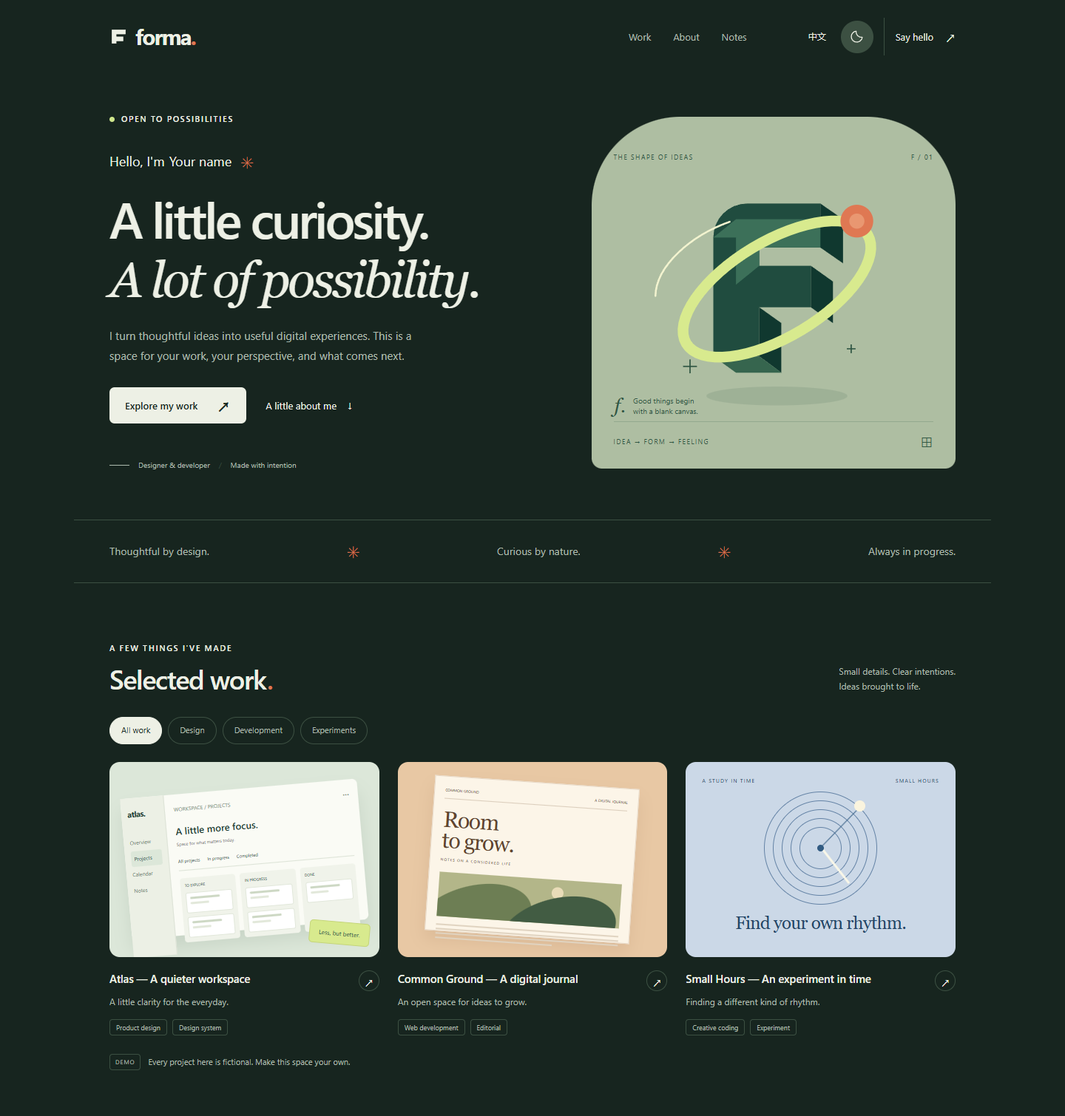
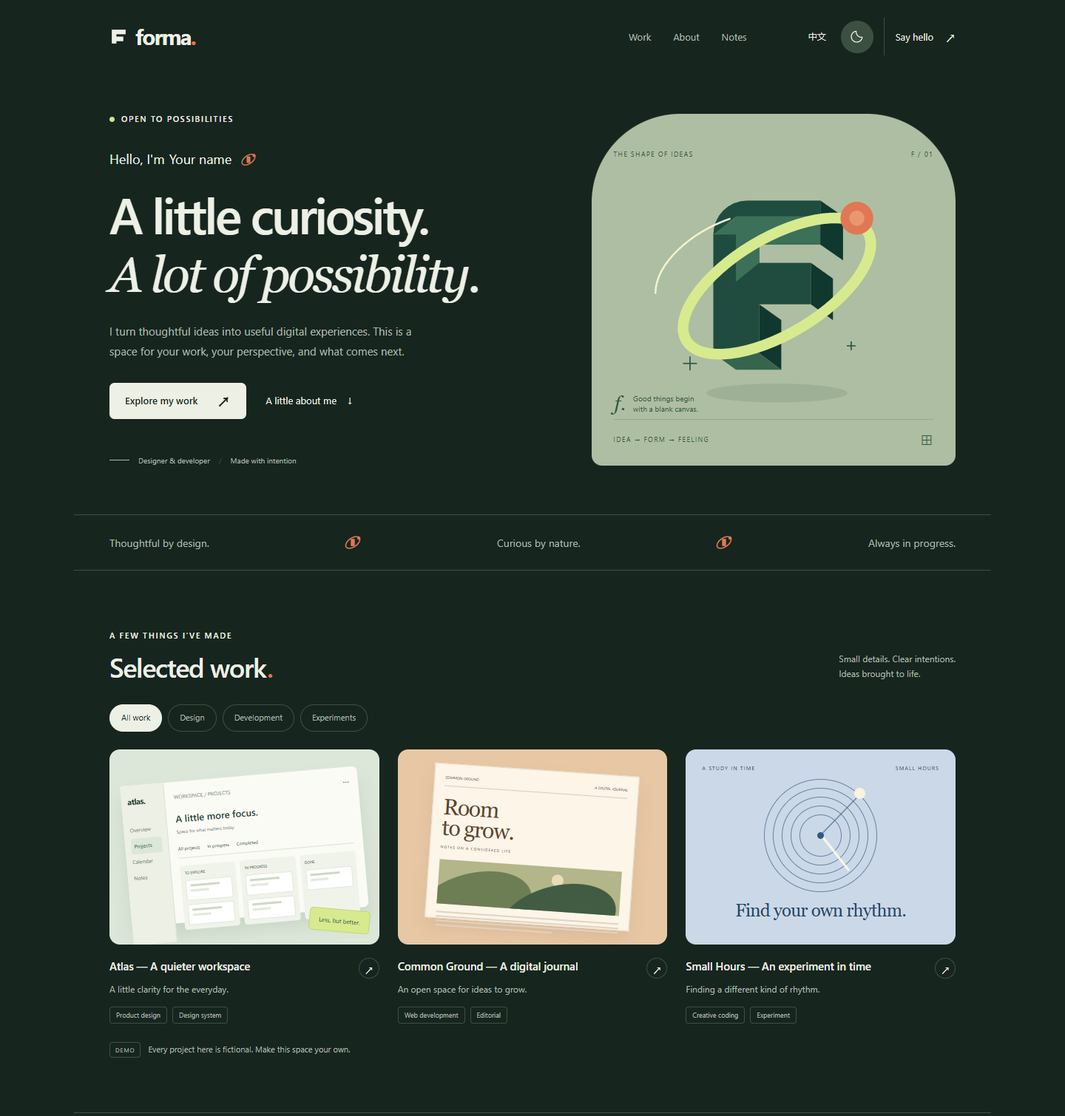
Replace radiating decorations with Forma orbit marks

diff --git a/assets/styles.css b/assets/styles.css
@@ -3,19 +3,19 @@
 html[data-theme="dark"]{--paper:#17251f;--surface:#20332a;--ink:#edf0e5;--muted:#aebcaf;--line:#3c5042;--forest:#cfe68c;--art:#aebea2;color-scheme:dark}
 *{box-sizing:border-box}html{scroll-behavior:smooth;scroll-padding-top:100px}body{margin:0;background:var(--paper);color:var(--ink);font:16px/1.65 var(--sans);-webkit-font-smoothing:antialiased}button,a{-webkit-tap-highlight-color:transparent}button,input{font:inherit}button,a{touch-action:manipulation}button{color:inherit}button{cursor:pointer}a{color:inherit;text-decoration:none}button:disabled{cursor:default}svg{display:block}button svg{width:21px;height:21px;fill:none;stroke:currentColor;stroke-width:1.5;stroke-linecap:round;stroke-linejoin:round}::selection{background:var(--accent);color:#203c32}:focus-visible{outline:3px solid var(--orange);outline-offset:5px}p,h1,h2,h3{margin:0}h1,h2,h3{line-height:1.12}em{font-family:var(--serif);font-weight:400}button{border:0}button,a{transition:background .18s,color .18s,transform .18s}[hidden]{display:none!important}.section-shell{max-width:1240px;padding-left:48px;padding-right:48px;margin:0 auto}.muted{color:var(--muted)}.tiny{font-size:12px}.eyebrow,.small-label{font:600 11px/1.5 var(--sans);letter-spacing:1.6px}.eyebrow{display:flex;align-items:center;gap:9px}.status-dot{height:7px;width:7px;border-radius:50%;background:var(--forest);flex:none}.skip-link{position:fixed;top:12px;left:12px;padding:10px 18px;background:var(--accent);color:#203c32;z-index:20;transform:translateY(-180%)}.skip-link:focus{transform:translateY(0)}
 .site-header{max-width:1240px;margin:auto;padding:24px 48px;display:flex;align-items:center;justify-content:space-between;gap:32px;min-height:92px}.wordmark{display:flex;gap:10px;align-items:center;font-weight:700;font-size:29px;letter-spacing:-1.6px}.wordmark-dot{color:var(--orange)}.desktop-nav{display:flex;gap:30px;font-size:13px;margin-left:auto;margin-right:45px}.desktop-nav a{color:var(--muted)}.desktop-nav a:hover{color:var(--ink)}.header-actions{display:flex;align-items:center;gap:14px}.language-button{font-size:12px;background:transparent;padding:10px 4px;min-width:36px;min-height:44px}.icon-button{width:44px;height:44px;border-radius:50%;background:transparent;display:grid;place-items:center}.icon-button:hover{background:var(--line)}.header-contact{display:flex;align-items:center;gap:16px;padding:10px 0 10px 15px;font-size:13px;border-left:1px solid var(--line)}.header-contact>span:last-child{font-size:19px}.menu-toggle{display:none}.mobile-nav{margin:0 24px;border:1px solid var(--line);border-radius:12px;padding:12px;position:absolute;left:0;right:0;z-index:10;background:var(--surface);box-shadow:0 12px 32px #0001}.mobile-nav a{display:block;padding:12px 16px}
-.hero{display:grid;grid-template-columns:minmax(0,1.25fr) minmax(0,1fr);gap:36px;padding-top:54px;padding-bottom:65px;align-items:center}.hero-intro{font-size:18px;margin-top:31px;display:flex;align-items:center;gap:6px}.small-star{font-size:22px;color:var(--orange);margin-left:5px}.hero h1{font-size:clamp(44px,4.7vw,68px);font-weight:500;letter-spacing:-3.3px;line-height:1.16;margin-top:19px;white-space:nowrap}.hero h1 em{letter-spacing:-3px}.hero-description{font-size:15px;max-width:410px;line-height:1.8;color:var(--muted);margin-top:23px;text-wrap:pretty}.hero-actions{display:flex;align-items:center;gap:26px;margin-top:29px}.button{display:inline-flex;align-items:center;justify-content:center;gap:25px;min-height:49px;padding:12px 21px;font-size:13px;font-weight:600;border-radius:7px}.button-primary{background:var(--ink);color:var(--paper)}.button-primary:hover{transform:translateY(-2px)}.button>span:last-child{font-size:20px;line-height:1}.text-link{display:inline-flex;align-items:center;gap:15px;font-size:13px;min-height:44px}.text-link:hover{color:var(--orange)}.hero-caption{display:flex;align-items:center;gap:12px;font-size:10px;color:var(--muted);margin-top:48px}.caption-line{width:27px;height:1px;background:var(--muted)}.caption-separator{color:var(--line)}.hero-art{background:var(--art);border-radius:120px 120px 14px 14px;position:relative;min-height:476px;color:#315744;overflow:hidden}.art-topline,.art-bottomline{display:flex;justify-content:space-between;align-items:center;position:absolute;left:30px;right:30px;font-size:9px;letter-spacing:1.3px}.art-topline{top:47px}.sculpture{width:100%;height:400px;margin-top:28px}.art-note{position:absolute;left:31px;bottom:66px;display:flex;align-items:center;gap:10px;font-size:10px;line-height:1.4}.art-note-mark{font-size:26px;font-family:var(--serif);font-style:italic}.art-bottomline{bottom:23px;border-top:1px solid #31574435;padding-top:13px}.art-grid-icon{font-size:16px}.principles{display:flex;align-items:center;justify-content:space-between;gap:20px;border-top:1px solid var(--line);border-bottom:1px solid var(--line);padding-top:24px;padding-bottom:24px;color:var(--muted);font-size:14px}.principle-star{font-size:22px;color:var(--orange)}
+.hero{display:grid;grid-template-columns:minmax(0,1.25fr) minmax(0,1fr);gap:36px;padding-top:54px;padding-bottom:65px;align-items:center}.hero-intro{font-size:18px;margin-top:31px;display:flex;align-items:center;gap:6px}.brand-symbols{position:absolute;width:0;height:0;overflow:hidden;pointer-events:none}.hero-mark{width:24px;height:24px;color:var(--orange);margin-left:5px;flex:none}.hero h1{font-size:clamp(44px,4.7vw,68px);font-weight:500;letter-spacing:-3.3px;line-height:1.16;margin-top:19px;white-space:nowrap}.hero h1 em{letter-spacing:-3px}.hero-description{font-size:15px;max-width:410px;line-height:1.8;color:var(--muted);margin-top:23px;text-wrap:pretty}.hero-actions{display:flex;align-items:center;gap:26px;margin-top:29px}.button{display:inline-flex;align-items:center;justify-content:center;gap:25px;min-height:49px;padding:12px 21px;font-size:13px;font-weight:600;border-radius:7px}.button-primary{background:var(--ink);color:var(--paper)}.button-primary:hover{transform:translateY(-2px)}.button>span:last-child{font-size:20px;line-height:1}.text-link{display:inline-flex;align-items:center;gap:15px;font-size:13px;min-height:44px}.text-link:hover{color:var(--orange)}.hero-caption{display:flex;align-items:center;gap:12px;font-size:10px;color:var(--muted);margin-top:48px}.caption-line{width:27px;height:1px;background:var(--muted)}.caption-separator{color:var(--line)}.hero-art{background:var(--art);border-radius:120px 120px 14px 14px;position:relative;min-height:476px;color:#315744;overflow:hidden}.art-topline,.art-bottomline{display:flex;justify-content:space-between;align-items:center;position:absolute;left:30px;right:30px;font-size:9px;letter-spacing:1.3px}.art-topline{top:47px}.sculpture{width:100%;height:400px;margin-top:28px}.art-note{position:absolute;left:31px;bottom:66px;display:flex;align-items:center;gap:10px;font-size:10px;line-height:1.4}.art-note-mark{font-size:26px;font-family:var(--serif);font-style:italic}.art-bottomline{bottom:23px;border-top:1px solid #31574435;padding-top:13px}.art-grid-icon{font-size:16px}.principles{display:flex;align-items:center;justify-content:space-between;gap:20px;border-top:1px solid var(--line);border-bottom:1px solid var(--line);padding-top:24px;padding-bottom:24px;color:var(--muted);font-size:14px}.principle-mark{width:26px;height:26px;color:var(--orange);flex:none}
 .work-section{padding-top:80px;padding-bottom:74px}.section-heading{display:flex;align-items:flex-end;justify-content:space-between;gap:28px;margin-bottom:31px}.section-heading h2{font-size:36px;font-weight:500;letter-spacing:-1.3px;margin-top:13px}.heading-dot{color:var(--orange)}.section-aside{font-size:12px;line-height:1.7;color:var(--muted)}.filters{display:flex;gap:8px;flex-wrap:wrap;margin-bottom:24px}.filter{font-size:11px;min-height:37px;padding:8px 15px;border:1px solid var(--line);border-radius:20px;background:transparent;color:var(--muted)}.filter:hover{border-color:var(--ink)}.filter[aria-pressed="true"]{background:var(--ink);border-color:var(--ink);color:var(--paper)}.project-grid{display:grid;grid-template-columns:repeat(3,minmax(0,1fr));gap:25px}.project{min-width:0}.project-button{display:block;text-align:left;padding:0;width:100%;background:transparent;border-radius:var(--radius)}.project-button:hover .project-art{transform:translateY(-4px)}.project-art{height:264px;position:relative;overflow:hidden;border-radius:var(--radius);transition:transform .2s}.project-meta{display:flex;align-items:start;justify-content:space-between;gap:10px;margin-top:18px}.project h3{font-size:15px;line-height:1.5;font-weight:600;max-width:260px;letter-spacing:-.2px}.project-arrow{height:28px;width:28px;display:grid;place-items:center;flex:none;border:1px solid var(--line);border-radius:50%;font-size:17px}.project-description{font-size:12px;color:var(--muted);margin-top:5px}.project-tags{display:flex;gap:7px;flex-wrap:wrap;margin-top:13px}.project-tag{font-size:9px;color:var(--muted);border:1px solid var(--line);padding:3px 8px;border-radius:4px}.demo-note{display:flex;align-items:center;gap:10px;margin-top:25px;color:var(--muted);font-size:11px}.demo-pill{font-size:8px;letter-spacing:.9px;padding:3px 7px;border:1px solid var(--line);border-radius:4px;flex:none}
 /* Project illustrations are fictional, locally drawn interface concepts. */
 .art-atlas{background:#dce7d9;display:grid;place-items:center}.mini-app{width:88%;height:191px;background:#fafbf5;box-shadow:0 17px 25px #203c321c;border-radius:7px;display:grid;grid-template-columns:59px 1fr;transform:rotate(-5deg);font-family:var(--sans);color:#203c32;text-align:left}.mini-sidebar{background:#ecf0e5;padding:13px 8px;border-right:1px solid #dce2d6;font-size:7px}.mini-logo{font-size:11px;letter-spacing:-.5px;font-weight:700;margin-bottom:19px}.mini-sidebar span{display:block;padding:5px 0;color:#68796b}.mini-sidebar .mini-active{color:#204c3f;background:#dce7d9;border-radius:3px;padding-left:4px}.mini-body{padding:15px 12px}.mini-top{font-size:7px;color:#819082;display:flex;justify-content:space-between;margin-bottom:12px}.mini-title{font-size:13px;font-weight:600;margin-bottom:4px}.mini-subtitle{font-size:6px;color:#718172}.mini-tabs{display:flex;gap:10px;border-bottom:1px solid #dbe2d5;margin-top:13px;padding-bottom:6px;font-size:6px}.mini-board{display:grid;grid-template-columns:repeat(3,1fr);gap:6px;margin-top:10px}.mini-column{background:#f0f3ea;border-radius:4px;padding:6px}.mini-column>span{font-size:5px;display:block;margin-bottom:6px}.mini-card{height:28px;background:white;border:1px solid #e1e7da;border-radius:3px;margin-top:5px;padding:5px;display:flex;flex-direction:column;gap:4px}.mini-card i{height:3px;width:78%;background:#cdd8c4;border-radius:3px}.mini-card i:last-child{width:48%;background:#e2e8da}.mini-sticker{position:absolute;bottom:17px;right:13px;background:#d8ea8e;padding:8px 12px;border-radius:5px;transform:rotate(5deg);font-size:8px;color:#204c3f;border:1px solid #c4d578}
 .art-ground{background:#e8c8a4;display:grid;place-items:center}.journal{width:76%;height:210px;background:#fcf5e8;transform:rotate(4deg);box-shadow:0 12px 23px #6b42261c;border:1px solid #e7d8c6;padding:14px;color:#61452f}.journal-nav{font-size:5px;display:flex;justify-content:space-between;border-bottom:1px solid #d9cbb9;padding-bottom:7px}.journal-title{font-family:var(--serif);font-size:30px;line-height:.92;margin-top:14px;font-weight:400;letter-spacing:-1.3px}.journal-caption{font-size:5px;margin-top:9px;letter-spacing:1px}.journal-landscape{height:60px;margin-top:12px;background:#b3b689;position:relative;overflow:hidden}.hill{position:absolute;border-radius:50%;width:160px;height:90px;background:#6d7e54;bottom:-46px;left:-30px;transform:rotate(-18deg)}.hill.second{background:#425c43;left:85px;bottom:-55px}.sun{position:absolute;background:#e9dcb8;width:16px;height:16px;border-radius:50%;left:62%;top:10px}.journal-lines{display:grid;gap:4px;margin-top:10px}.journal-lines i{height:2px;background:#e0d3c0}.journal-lines i:last-child{width:64%}
 .art-hours{background:#cbd8e7;color:#234668;display:flex;flex-direction:column;align-items:center;justify-content:center}.hours-top{position:absolute;top:20px;left:22px;right:22px;display:flex;justify-content:space-between;font-size:7px;letter-spacing:1.2px}.clock-art{width:153px;height:153px;position:relative;margin-top:6px}.clock-ring{position:absolute;inset:0;border:1px solid #6382a5;border-radius:50%}.clock-ring:nth-child(2){inset:12px}.clock-ring:nth-child(3){inset:24px}.clock-ring:nth-child(4){inset:36px}.clock-ring:nth-child(5){inset:48px}.clock-hand{position:absolute;top:0;left:76px;width:1px;height:76px;background:#315b82;transform-origin:bottom;transform:rotate(44deg)}.clock-hand.second{transform:rotate(142deg);height:61px;top:15px;background:#f9f7e8;width:3px}.clock-center{position:absolute;width:9px;height:9px;background:#315b82;border-radius:50%;left:72px;top:72px}.clock-dot{position:absolute;left:122px;top:12px;width:15px;height:15px;border-radius:50%;background:#faf4de}.hours-bottom{font-family:var(--serif);font-size:24px;letter-spacing:-.7px;line-height:1;margin-top:13px}.art-generic{background:var(--art);display:grid;place-items:center;color:#204c3f}.art-generic svg{width:90px;height:90px}
 .about-section{display:grid;grid-template-columns:1fr 1.1fr;gap:90px;padding-top:65px;padding-bottom:75px;border-top:1px solid var(--line);border-bottom:1px solid var(--line)}.about-intro h2{font-size:49px;font-weight:500;letter-spacing:-2px;line-height:1.14;margin-top:24px}.about-symbol{width:74px;color:var(--orange);margin-top:30px}.about-lead{font-size:23px;line-height:1.5;letter-spacing:-.6px;max-width:380px}.about-description{font-size:13px;color:var(--muted);margin-top:16px;line-height:1.9;max-width:440px}.about-body .small-label{margin-top:28px;font-size:9px}.skill-list{display:flex;gap:8px;flex-wrap:wrap;margin-top:13px}.skill{font-size:10px;border:1px solid var(--line);padding:5px 10px;border-radius:5px}.experience-heading{display:flex;align-items:baseline;justify-content:space-between;gap:10px;margin-bottom:9px}.experience{display:grid;grid-template-columns:130px 1fr;gap:20px;padding:16px 0;border-bottom:1px solid var(--line)}.experience-period{color:var(--muted);font-size:10px;padding-top:2px;letter-spacing:.4px}.experience-role{font-size:13px;font-weight:600}.experience-org{color:var(--muted);font-size:11px;margin-top:3px}.resume-link{margin-top:16px}
-.notes-section{padding-top:75px;padding-bottom:75px}.note{border-top:1px solid var(--line);display:block;width:100%;text-align:left;background:transparent;padding:23px 0}.note:last-child{border-bottom:1px solid var(--line)}.note-row{display:grid;grid-template-columns:125px 1fr auto;align-items:center;gap:25px}.note-category{font-size:9px;letter-spacing:1.2px;color:var(--muted)}.note h3{font-size:18px;font-weight:500;letter-spacing:-.4px;line-height:1.4}.note-end{display:flex;align-items:center;gap:35px;font-size:9px;letter-spacing:.7px;color:var(--muted)}.note-arrow{font-size:22px;color:var(--ink)}.note:hover h3{color:var(--orange)}.contact-section{background:var(--ink);color:var(--paper);padding-top:45px;padding-bottom:44px;border-radius:var(--radius);max-width:1144px}.contact-upper{display:flex;align-items:center;justify-content:space-between;gap:20px}.contact-upper .status-dot{background:var(--accent)}.contact-upper .eyebrow{font-size:9px}.contact-star{font-size:50px;color:var(--accent);line-height:1}.contact-section h2{font-size:clamp(39px,4.5vw,60px);font-weight:400;letter-spacing:-2.1px;line-height:1.13;margin-top:20px}.contact-section h2 em{color:var(--accent)}.contact-bottom{display:flex;align-items:center;justify-content:space-between;gap:30px;margin-top:27px}.contact-bottom p{font-size:12px;line-height:1.8;opacity:.75}.button-contact{background:var(--accent);color:#203c32;min-width:168px}.button-contact:hover{transform:translateY(-2px);background:#e3efa8}.social-links{display:flex;gap:23px;margin-top:25px;flex-wrap:wrap;font-size:12px}.social-links a{text-decoration:underline;text-underline-offset:5px}.site-footer{display:flex;align-items:center;justify-content:space-between;gap:24px;padding-top:30px;padding-bottom:30px;font-size:10px;color:var(--muted)}.back-top{display:flex;align-items:center;gap:15px;min-height:44px}.back-top span:last-child{font-size:17px}
+.notes-section{padding-top:75px;padding-bottom:75px}.note{border-top:1px solid var(--line);display:block;width:100%;text-align:left;background:transparent;padding:23px 0}.note:last-child{border-bottom:1px solid var(--line)}.note-row{display:grid;grid-template-columns:125px 1fr auto;align-items:center;gap:25px}.note-category{font-size:9px;letter-spacing:1.2px;color:var(--muted)}.note h3{font-size:18px;font-weight:500;letter-spacing:-.4px;line-height:1.4}.note-end{display:flex;align-items:center;gap:35px;font-size:9px;letter-spacing:.7px;color:var(--muted)}.note-arrow{font-size:22px;color:var(--ink)}.note:hover h3{color:var(--orange)}.contact-section{background:var(--ink);color:var(--paper);padding-top:45px;padding-bottom:44px;border-radius:var(--radius);max-width:1144px}.contact-upper{display:flex;align-items:center;justify-content:space-between;gap:20px}.contact-upper .status-dot{background:var(--accent)}.contact-upper .eyebrow{font-size:9px}.contact-mark{width:56px;height:56px;color:var(--accent);flex:none}.contact-section h2{font-size:clamp(39px,4.5vw,60px);font-weight:400;letter-spacing:-2.1px;line-height:1.13;margin-top:20px}.contact-section h2 em{color:var(--accent)}.contact-bottom{display:flex;align-items:center;justify-content:space-between;gap:30px;margin-top:27px}.contact-bottom p{font-size:12px;line-height:1.8;opacity:.75}.button-contact{background:var(--accent);color:#203c32;min-width:168px}.button-contact:hover{transform:translateY(-2px);background:#e3efa8}.social-links{display:flex;gap:23px;margin-top:25px;flex-wrap:wrap;font-size:12px}.social-links a{text-decoration:underline;text-underline-offset:5px}.site-footer{display:flex;align-items:center;justify-content:space-between;gap:24px;padding-top:30px;padding-bottom:30px;font-size:10px;color:var(--muted)}.back-top{display:flex;align-items:center;gap:15px;min-height:44px}.back-top span:last-child{font-size:17px}
 dialog{width:min(660px,calc(100% - 32px));border:1px solid var(--line);border-radius:16px;padding:0;background:var(--surface);color:var(--ink);max-height:85dvh;overflow:auto;box-shadow:0 30px 100px #0003}dialog::backdrop{background:#142a2480;backdrop-filter:blur(5px)}.dialog-content{position:relative;padding:45px}.dialog-close{position:absolute;right:12px;top:12px}.dialog-content>.eyebrow{padding-right:20px;color:var(--muted);font-size:9px}.dialog-content h2{font-weight:500;letter-spacing:-1px;font-size:32px;margin-top:16px;line-height:1.2;overflow-wrap:anywhere}.dialog-summary{margin-top:18px;font-size:17px;color:var(--muted)}.dialog-body{margin-top:27px}.dialog-body h3{font-size:14px;line-height:1.5;margin-top:24px}.dialog-body p{font-size:14px;line-height:1.9;color:var(--muted);margin-top:12px;white-space:pre-line;overflow-wrap:anywhere}.dialog-link{margin-top:28px}.noscript-message{position:fixed;bottom:0;padding:15px;background:var(--accent);color:#203c32;width:100%;text-align:center;font-size:13px}body:has(dialog[open]){overflow:hidden}
 html[lang="zh-CN"] .hero h1{font-size:clamp(39px,4.7vw,65px);letter-spacing:-2px;line-height:1.3}html[lang="zh-CN"] .hero h1 em,html[lang="zh-CN"] .contact-section h2 em,html[lang="zh-CN"] .about-intro h2 em{font-style:normal}html[lang="zh-CN"] .eyebrow{letter-spacing:2px}html[lang="zh-CN"] .hero-description{line-height:2}html[lang="zh-CN"] .contact-section h2{line-height:1.3}
 @media(min-width:1600px){.hero{padding-top:75px;padding-bottom:85px}}
 @media(max-width:1050px){.section-shell{padding-left:32px;padding-right:32px}.site-header{padding-left:32px;padding-right:32px}.hero{gap:28px}.hero h1{font-size:5.3vw;letter-spacing:-2.5px}.hero h1 em{letter-spacing:-2px}.hero-art{min-height:420px}.sculpture{height:350px}.art-topline{top:32px;left:23px;right:23px}.hero-caption{flex-wrap:wrap;font-size:9px;gap:8px}.hero-actions{gap:18px}.project-art{height:230px}.project-grid{gap:18px}.mini-app{height:175px;width:91%}.mini-body{padding:12px 8px}.journal{width:82%;height:200px}.about-section{gap:50px}.contact-section{margin-left:32px;margin-right:32px}.desktop-nav{margin-right:20px;gap:22px}.note-end{gap:20px}.principles{font-size:12px}}
-@media(max-width:760px){.section-shell{padding-left:24px;padding-right:24px}.site-header{padding:16px 24px;min-height:80px;gap:10px}.wordmark{font-size:26px}.wordmark svg{width:22px}.desktop-nav,.header-contact{display:none}.header-actions{gap:4px}.menu-toggle{display:grid}.hero{grid-template-columns:1fr;padding-top:30px;padding-bottom:38px;gap:36px}.hero-content{max-width:560px}.hero-intro{margin-top:25px;font-size:16px}.hero h1{font-size:clamp(39px,7.5vw,58px);letter-spacing:-2px}.hero h1 em{letter-spacing:-1.8px}.hero-description{max-width:420px;font-size:14px}.hero-actions{gap:24px}.hero-caption{margin-top:28px}.hero-art{min-height:390px;border-radius:95px 95px 14px 14px;max-width:480px;width:100%;justify-self:center}.sculpture{height:355px;margin-top:7px}.art-topline{top:30px;left:29px;right:29px}.art-note{bottom:58px}.principles{justify-content:center;gap:14px;padding-top:18px;padding-bottom:18px;flex-wrap:wrap;font-size:11px}.principle-star{font-size:16px}.principles>span:last-child,.principles>span:nth-last-child(2){display:none}.work-section{padding-top:49px;padding-bottom:45px}.section-heading{align-items:start;gap:20px}.section-heading h2{font-size:30px}.section-aside{display:none}.project-grid{grid-template-columns:1fr;gap:28px}.project-art{height:310px}.mini-app{width:76%;max-width:340px;height:220px;grid-template-columns:70px 1fr}.mini-sidebar{font-size:8px;padding:16px 10px}.mini-logo{font-size:13px}.mini-body{padding:18px 16px}.mini-title{font-size:16px}.mini-top{font-size:8px}.mini-subtitle,.mini-tabs{font-size:7px}.mini-board{gap:8px}.mini-column{padding:8px}.mini-column>span{font-size:6px}.mini-card{height:35px}.mini-sticker{right:30px;bottom:23px;font-size:10px}.journal{max-width:240px;height:245px;width:72%;padding:19px}.journal-title{font-size:36px}.journal-nav{font-size:6px}.journal-caption{font-size:6px}.journal-landscape{height:78px}.hours-top{font-size:9px;top:24px;left:26px;right:26px}.clock-art{width:173px;height:173px;transform:scale(1.13);transform-origin:top left;left:-10px;margin-bottom:5px}.clock-ring{width:153px;height:153px}.clock-ring:nth-child(2){width:129px;height:129px}.clock-ring:nth-child(3){width:105px;height:105px}.clock-ring:nth-child(4){width:81px;height:81px}.clock-ring:nth-child(5){width:57px;height:57px}.hours-bottom{font-size:29px}.project h3{font-size:17px;max-width:none}.project-description{font-size:13px}.project-tag{font-size:10px}.demo-note{font-size:10px;align-items:start}.about-section{grid-template-columns:1fr;gap:30px;padding-top:45px;padding-bottom:45px}.about-intro h2{font-size:44px;margin-top:17px}.about-symbol{display:none}.about-lead{font-size:23px}.about-description{max-width:none;font-size:14px}.skill{font-size:11px}.experience{grid-template-columns:110px 1fr;gap:16px}.notes-section{padding-top:45px;padding-bottom:45px}.note-row{grid-template-columns:1fr auto;gap:10px}.note-category{grid-column:1/-1}.note h3{font-size:17px}.note-end .reading-time{display:none}.note{padding:20px 0}.contact-section{margin:0 24px;padding-top:31px;padding-bottom:31px}.contact-section h2{font-size:clamp(32px,6.7vw,47px);letter-spacing:-1.4px}.contact-star{font-size:35px}.contact-bottom{align-items:start;flex-direction:column;gap:22px;margin-top:22px}.contact-bottom p{font-size:12px}.contact-upper .eyebrow{font-size:8px;letter-spacing:1px}.button-contact{min-width:156px}.site-footer{font-size:9px;gap:15px;padding-top:20px;padding-bottom:20px;flex-wrap:wrap}.footer-credit{display:none}.dialog-content{padding:39px 25px 30px}.dialog-content h2{font-size:27px}html[lang="zh-CN"] .hero h1{font-size:clamp(39px,8.1vw,60px)}}
+@media(max-width:760px){.section-shell{padding-left:24px;padding-right:24px}.site-header{padding:16px 24px;min-height:80px;gap:10px}.wordmark{font-size:26px}.wordmark svg{width:22px}.desktop-nav,.header-contact{display:none}.header-actions{gap:4px}.menu-toggle{display:grid}.hero{grid-template-columns:1fr;padding-top:30px;padding-bottom:38px;gap:36px}.hero-content{max-width:560px}.hero-intro{margin-top:25px;font-size:16px}.hero h1{font-size:clamp(39px,7.5vw,58px);letter-spacing:-2px}.hero h1 em{letter-spacing:-1.8px}.hero-description{max-width:420px;font-size:14px}.hero-actions{gap:24px}.hero-caption{margin-top:28px}.hero-art{min-height:390px;border-radius:95px 95px 14px 14px;max-width:480px;width:100%;justify-self:center}.sculpture{height:355px;margin-top:7px}.art-topline{top:30px;left:29px;right:29px}.art-note{bottom:58px}.principles{justify-content:center;gap:14px;padding-top:18px;padding-bottom:18px;flex-wrap:wrap;font-size:11px}.principle-mark{width:20px;height:20px}.principles>span:last-child,.principles>svg:nth-last-child(2){display:none}.work-section{padding-top:49px;padding-bottom:45px}.section-heading{align-items:start;gap:20px}.section-heading h2{font-size:30px}.section-aside{display:none}.project-grid{grid-template-columns:1fr;gap:28px}.project-art{height:310px}.mini-app{width:76%;max-width:340px;height:220px;grid-template-columns:70px 1fr}.mini-sidebar{font-size:8px;padding:16px 10px}.mini-logo{font-size:13px}.mini-body{padding:18px 16px}.mini-title{font-size:16px}.mini-top{font-size:8px}.mini-subtitle,.mini-tabs{font-size:7px}.mini-board{gap:8px}.mini-column{padding:8px}.mini-column>span{font-size:6px}.mini-card{height:35px}.mini-sticker{right:30px;bottom:23px;font-size:10px}.journal{max-width:240px;height:245px;width:72%;padding:19px}.journal-title{font-size:36px}.journal-nav{font-size:6px}.journal-caption{font-size:6px}.journal-landscape{height:78px}.hours-top{font-size:9px;top:24px;left:26px;right:26px}.clock-art{width:173px;height:173px;transform:scale(1.13);transform-origin:top left;left:-10px;margin-bottom:5px}.clock-ring{width:153px;height:153px}.clock-ring:nth-child(2){width:129px;height:129px}.clock-ring:nth-child(3){width:105px;height:105px}.clock-ring:nth-child(4){width:81px;height:81px}.clock-ring:nth-child(5){width:57px;height:57px}.hours-bottom{font-size:29px}.project h3{font-size:17px;max-width:none}.project-description{font-size:13px}.project-tag{font-size:10px}.demo-note{font-size:10px;align-items:start}.about-section{grid-template-columns:1fr;gap:30px;padding-top:45px;padding-bottom:45px}.about-intro h2{font-size:44px;margin-top:17px}.about-symbol{display:none}.about-lead{font-size:23px}.about-description{max-width:none;font-size:14px}.skill{font-size:11px}.experience{grid-template-columns:110px 1fr;gap:16px}.notes-section{padding-top:45px;padding-bottom:45px}.note-row{grid-template-columns:1fr auto;gap:10px}.note-category{grid-column:1/-1}.note h3{font-size:17px}.note-end .reading-time{display:none}.note{padding:20px 0}.contact-section{margin:0 24px;padding-top:31px;padding-bottom:31px}.contact-section h2{font-size:clamp(32px,6.7vw,47px);letter-spacing:-1.4px}.contact-mark{width:40px;height:40px}.contact-bottom{align-items:start;flex-direction:column;gap:22px;margin-top:22px}.contact-bottom p{font-size:12px}.contact-upper .eyebrow{font-size:8px;letter-spacing:1px}.button-contact{min-width:156px}.site-footer{font-size:9px;gap:15px;padding-top:20px;padding-bottom:20px;flex-wrap:wrap}.footer-credit{display:none}.dialog-content{padding:39px 25px 30px}.dialog-content h2{font-size:27px}html[lang="zh-CN"] .hero h1{font-size:clamp(39px,8.1vw,60px)}}
 @media(max-width:360px){.hero h1{font-size:35px;letter-spacing:-1.6px}.hero h1 em{letter-spacing:-1.6px}.hero-actions{gap:15px}.button{padding:11px 16px;gap:17px}.text-link{font-size:11px;gap:8px}.principles{gap:10px;font-size:10px}.project-art{height:270px}.mini-app{width:85%;grid-template-columns:55px 1fr}.mini-body{padding:16px 10px}.contact-section h2{font-size:29px}}
 @media(prefers-reduced-motion:reduce){html{scroll-behavior:auto}*,*::before,*::after{transition:none!important;animation:none!important}.project-button:hover .project-art,.button-primary:hover,.button-contact:hover{transform:none}}
 @media print{.header-actions,.desktop-nav,.hero-art,.filters,.demo-note,.button,.text-link,.back-top,dialog{display:none!important}.section-shell{padding:20px}.hero,.about-section{display:block}.hero h1{font-size:40px}.project-grid{grid-template-columns:repeat(3,1fr)}.project-art{height:180px}.contact-section{background:transparent;color:#203c32}.contact-section h2{font-size:30px}.contact-section h2 em{color:inherit}body{background:white;color:#203c32}}

diff --git a/index.html b/index.html
@@ -14,6 +14,7 @@
   <script src="./assets/app.js" defer></script>
 </head>
 <body>
+  <svg class="brand-symbols" aria-hidden="true" xmlns="http://www.w3.org/2000/svg"><defs><symbol id="forma-orbit" viewBox="0 0 48 48"><ellipse cx="24" cy="24" rx="20" ry="11" transform="rotate(-35 24 24)" fill="none" stroke="currentColor" stroke-width="3"></ellipse><rect x="19" y="15" width="10" height="18" rx="2" fill="currentColor"></rect><circle cx="39" cy="13" r="4" fill="currentColor"></circle></symbol></defs></svg>
   <a class="skip-link" href="#main" data-i18n="skip">Skip to content</a>
   <header class="site-header">
     <a class="wordmark" href="#home" aria-label="Forma home"><svg width="25" height="25" viewBox="0 0 32 32" aria-hidden="true"><path d="M4 4h24v8H12v4h12v8H12v4H4z" fill="currentColor"></path></svg><span>forma<span class="wordmark-dot">.</span></span></a>
@@ -32,7 +33,7 @@
     <section class="hero section-shell" id="home" aria-labelledby="hero-title">
       <div class="hero-content">
         <div class="eyebrow"><span class="status-dot"></span><span id="profile-status">OPEN TO POSSIBILITIES</span></div>
-        <p class="hero-intro"><span data-i18n="hello">Hello, I'm</span> <span id="profile-name">Your name</span><span class="small-star" aria-hidden="true">✳</span></p>
+        <p class="hero-intro"><span data-i18n="hello">Hello, I'm</span> <span id="profile-name">Your name</span><svg class="hero-mark" viewBox="0 0 48 48" aria-hidden="true"><use href="#forma-orbit"></use></svg></p>
         <h1 id="hero-title"><span id="headline-first">A little curiosity.</span><br><em id="headline-second">A lot of possibility.</em></h1>
         <p class="hero-description" id="profile-description">I turn thoughtful ideas into useful digital experiences. This is a space for your work, your perspective, and what comes next.</p>
         <div class="hero-actions"><a class="button button-primary" href="#work"><span data-i18n="exploreWork">Explore my work</span><span aria-hidden="true">↗</span></a><a class="text-link" href="#about"><span data-i18n="moreAbout">A little about me</span><span aria-hidden="true">↓</span></a></div>
@@ -57,7 +58,7 @@
         <div class="art-bottomline"><span>IDEA → FORM → FEELING</span><span class="art-grid-icon">⊞</span></div>
       </div>
     </section>
-    <div class="principles section-shell" aria-label="Creative approach"><span data-i18n="principle1">Thoughtful by design.</span><span class="principle-star" aria-hidden="true">✳</span><span data-i18n="principle2">Curious by nature.</span><span class="principle-star" aria-hidden="true">✳</span><span data-i18n="principle3">Always in progress.</span></div>
+    <div class="principles section-shell" aria-label="Creative approach"><span data-i18n="principle1">Thoughtful by design.</span><svg class="principle-mark" viewBox="0 0 48 48" aria-hidden="true"><use href="#forma-orbit"></use></svg><span data-i18n="principle2">Curious by nature.</span><svg class="principle-mark" viewBox="0 0 48 48" aria-hidden="true"><use href="#forma-orbit"></use></svg><span data-i18n="principle3">Always in progress.</span></div>
     <section class="work-section section-shell" id="work" aria-labelledby="work-title">
       <div class="section-heading"><div><p class="eyebrow" data-i18n="selectedWork">A FEW THINGS I'VE MADE</p><h2 id="work-title" data-i18n="workTitle">Selected work<span class="heading-dot">.</span></h2></div><p class="section-aside" data-i18n="workAside">Small details. Clear intentions.<br>Ideas brought to life.</p></div>
       <div class="filters" id="project-filters" role="group" aria-label="Filter projects"></div>
@@ -65,11 +66,11 @@
       <p class="demo-note"><span class="demo-pill" data-i18n="demo">DEMO</span><span data-i18n="demoNote">Every project here is fictional. Make this space your own.</span></p>
     </section>
     <section class="about-section section-shell" id="about" aria-labelledby="about-title">
-      <div class="about-intro"><p class="eyebrow" data-i18n="behindWork">THE PERSON BEHIND THE WORK</p><h2 id="about-title"><span data-i18n="aboutTitle">Less noise.</span><br><em data-i18n="aboutTitleSecond">More meaning.</em></h2><div class="about-symbol" aria-hidden="true"><svg viewBox="0 0 120 120"><path d="M60 5v110M5 60h110M21 21l78 78M21 99l78-78" stroke="currentColor" stroke-width="16"></path></svg></div></div>
+      <div class="about-intro"><p class="eyebrow" data-i18n="behindWork">THE PERSON BEHIND THE WORK</p><h2 id="about-title"><span data-i18n="aboutTitle">Less noise.</span><br><em data-i18n="aboutTitleSecond">More meaning.</em></h2><div class="about-symbol" aria-hidden="true"><svg viewBox="0 0 48 48"><use href="#forma-orbit"></use></svg></div></div>
       <div class="about-body"><p class="about-lead" id="about-lead"></p><p class="about-description" id="about-description"></p><h3 class="small-label" data-i18n="toolbox">MY TOOLBOX</h3><div class="skill-list" id="skill-list"></div><div class="experience-heading"><h3 class="small-label" data-i18n="alongWay">ALONG THE WAY</h3><span class="muted tiny" data-i18n="sampleTimeline">Sample timeline</span></div><div id="experience-list"></div><a class="text-link resume-link" id="resume-link" hidden><span data-i18n="downloadResume">View résumé</span><span aria-hidden="true">↗</span></a></div>
     </section>
     <section class="notes-section section-shell" id="notes" aria-labelledby="notes-title"><div class="section-heading"><div><p class="eyebrow" data-i18n="thinkingOutLoud">THINKING OUT LOUD</p><h2 id="notes-title" data-i18n="notesTitle">Notes & observations<span class="heading-dot">.</span></h2></div><span class="section-aside" data-i18n="notesAside">A place for unfinished thoughts.</span></div><div id="notes-list"></div></section>
-    <section class="contact-section section-shell" id="contact" aria-labelledby="contact-title"><div class="contact-upper"><span class="eyebrow"><span class="status-dot"></span><span data-i18n="nextChapter">READY FOR THE NEXT CHAPTER</span></span><span class="contact-star" aria-hidden="true">✳</span></div><h2 id="contact-title"><span data-i18n="contactTitle">Good things start</span><br><em data-i18n="contactTitleSecond">with a conversation.</em></h2><div class="contact-bottom"><p data-i18n="contactDescription">Have an idea, a question, or just a hello?<br>There's always room for something good.</p><button type="button" class="button button-contact" id="contact-button"><span data-i18n="letsTalk">Let's talk</span><span aria-hidden="true">↗</span></button></div><div class="social-links" id="social-links" hidden></div></section>
+    <section class="contact-section section-shell" id="contact" aria-labelledby="contact-title"><div class="contact-upper"><span class="eyebrow"><span class="status-dot"></span><span data-i18n="nextChapter">READY FOR THE NEXT CHAPTER</span></span><svg class="contact-mark" viewBox="0 0 48 48" aria-hidden="true"><use href="#forma-orbit"></use></svg></div><h2 id="contact-title"><span data-i18n="contactTitle">Good things start</span><br><em data-i18n="contactTitleSecond">with a conversation.</em></h2><div class="contact-bottom"><p data-i18n="contactDescription">Have an idea, a question, or just a hello?<br>There's always room for something good.</p><button type="button" class="button button-contact" id="contact-button"><span data-i18n="letsTalk">Let's talk</span><span aria-hidden="true">↗</span></button></div><div class="social-links" id="social-links" hidden></div></section>
   </main>
   <footer class="site-footer section-shell"><span>© <span id="year"></span> <span id="footer-name">Your name</span></span><span class="footer-credit"><span data-i18n="builtWith">Built with</span> Forma<span class="wordmark-dot">.</span></span><a href="#home" class="back-top"><span data-i18n="backTop">Back to top</span><span aria-hidden="true">↑</span></a></footer>
   <dialog id="detail-dialog" aria-labelledby="dialog-title"><div class="dialog-content"><button type="button" class="icon-button dialog-close" id="dialog-close" aria-label="Close dialog"><svg viewBox="0 0 24 24" aria-hidden="true"><path d="m6 6 12 12M18 6 6 18"></path></svg></button><p class="eyebrow" id="dialog-label"></p><h2 id="dialog-title"></h2><p class="dialog-summary" id="dialog-summary"></p><div class="dialog-body" id="dialog-body"></div><a class="button button-primary dialog-link" id="dialog-link" hidden><span data-i18n="visitProject">Visit project</span><span aria-hidden="true">↗</span></a></div></dialog>

diff --git a/assets/app.js b/assets/app.js
@@ -86,7 +86,7 @@
     atlas: '<div class="mini-app"><div class="mini-sidebar"><div class="mini-logo">atlas.</div><span>Overview</span><span class="mini-active">Projects</span><span>Calendar</span><span>Notes</span></div><div class="mini-body"><div class="mini-top"><span>WORKSPACE / PROJECTS</span><span>•••</span></div><div class="mini-title">A little more focus.</div><div class="mini-subtitle">Space for what matters today.</div><div class="mini-tabs"><span>All projects</span><span>In progress</span><span>Completed</span></div><div class="mini-board"><div class="mini-column"><span>TO EXPLORE</span><div class="mini-card"><i></i><i></i></div><div class="mini-card"><i></i><i></i></div></div><div class="mini-column"><span>IN PROGRESS</span><div class="mini-card"><i></i><i></i></div><div class="mini-card"><i></i><i></i></div></div><div class="mini-column"><span>DONE</span><div class="mini-card"><i></i><i></i></div></div></div></div></div><div class="mini-sticker">Less, but better.</div>',
     ground: '<div class="journal"><div class="journal-nav"><span>COMMON GROUND</span><span>A DIGITAL JOURNAL</span></div><div class="journal-title">Room<br>to grow.</div><div class="journal-caption">NOTES ON A CONSIDERED LIFE</div><div class="journal-landscape"><span class="sun"></span><span class="hill"></span><span class="hill second"></span></div><div class="journal-lines"><i></i><i></i><i></i><i></i></div></div>',
     hours: '<div class="hours-top"><span>A STUDY IN TIME</span><span>SMALL HOURS</span></div><div class="clock-art"><span class="clock-ring"></span><span class="clock-ring"></span><span class="clock-ring"></span><span class="clock-ring"></span><span class="clock-ring"></span><span class="clock-hand"></span><span class="clock-hand second"></span><span class="clock-center"></span><span class="clock-dot"></span></div><div class="hours-bottom">Find your own rhythm.</div>',
-    generic: '<svg viewBox="0 0 120 120"><path d="M60 5v110M5 60h110M21 21l78 78M21 99l78-78" stroke="currentColor" stroke-width="16"></path></svg>',
+    generic: '<svg viewBox="0 0 48 48"><use href="#forma-orbit"></use></svg>',
   };
   function renderProjects() {
     const grid = $('#project-grid');
